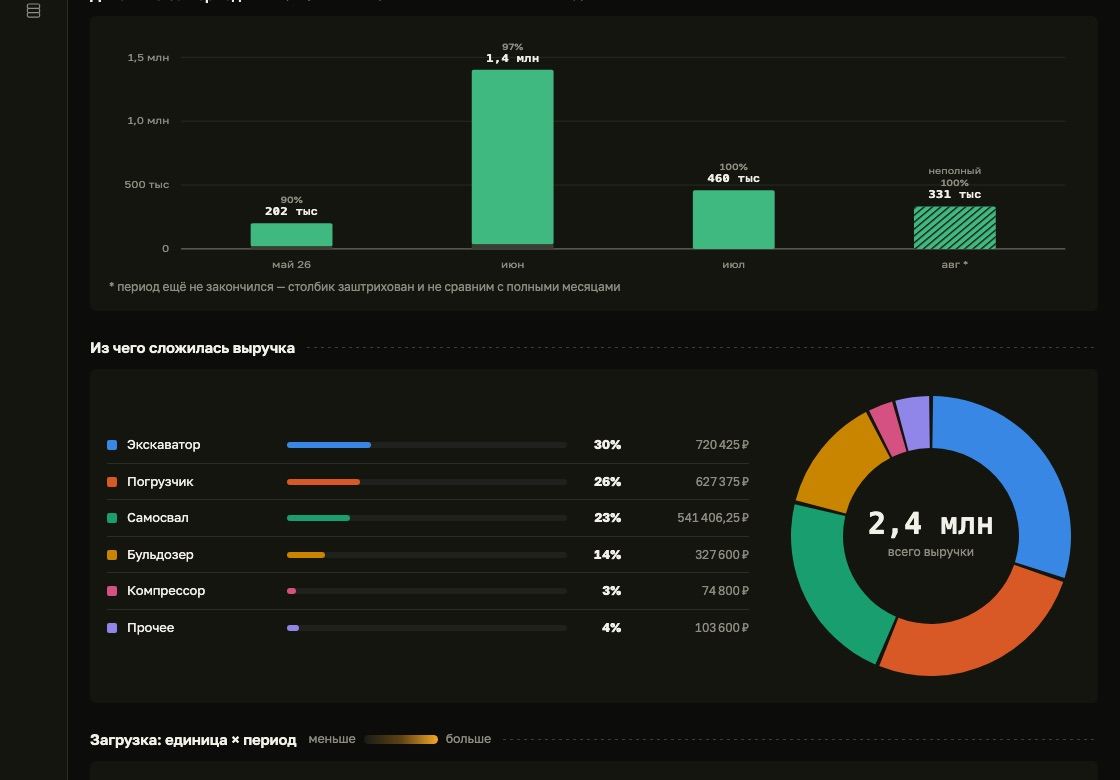
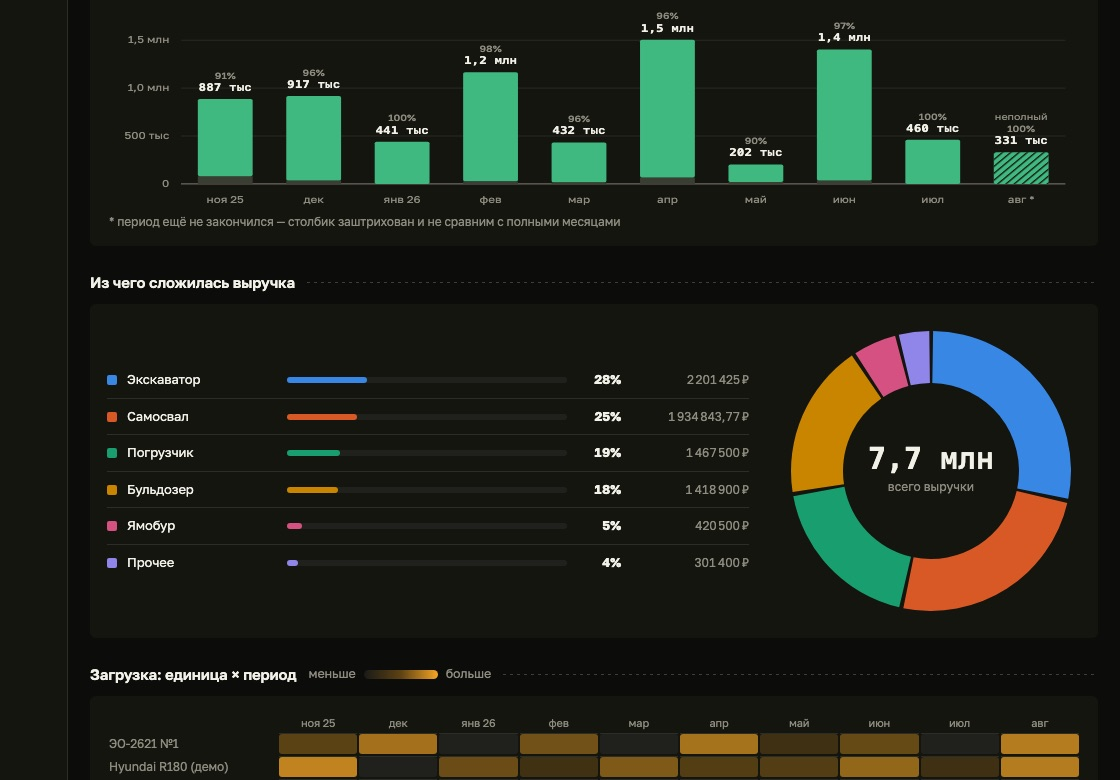
Park card: 9-month chart and the whole donut above the caption
Two changes he asked for.

The chart shows ten columns instead of four. The demo defaults to a 3-month
window even though 'm9' is the declared default preset - periodFrom is
initialised to -60 days and the saved period in localStorage wins after that -
so the shot page forces applyPreset('m9') on load. That is a screenshot-only
override; the demo itself is untouched.

The crop moves y=455 -> y=520 so the donut clears the caption completely rather
than 80%. Measured: caption 115px on an 889px card = 145px of the 1120 source,
leaving rows 0-635 visible; the donut occupies page rows 850-1150, so 1150-635
puts its bottom edge exactly on the caption line.

Card descriptions drop from three lines to two. The caption sits ON the shot
now, so every line it takes is a line of product it hides - and park's donut was
landing under the third one.

diff --git a/app/src/v2/v2.css b/app/src/v2/v2.css
@@ -503,7 +503,9 @@ html.v2light{--slogan:linear-gradient(100deg,#8A7261,#5C4536 46%,#33241A)}
 .proj__body b{display:block;color:var(--ink);font-size:clamp(15px,1.15vw,18px);letter-spacing:-.01em}
 .proj__body em{display:block;margin-top:5px;color:var(--ink-soft);font-style:normal;
   font-size:clamp(12px,.86vw,13.5px);line-height:1.45;
-  display:-webkit-box;-webkit-line-clamp:3;-webkit-box-orient:vertical;overflow:hidden}
+  /* two lines, not three. The caption sits ON the shot, so every line it takes is a line of the
+     product it hides - and the donut on park's card was landing exactly under the third one. */
+  display:-webkit-box;-webkit-line-clamp:2;-webkit-box-orient:vertical;overflow:hidden}
 .proj__go{display:inline-block;margin-top:9px;color:var(--accent);
   font-size:12.5px;letter-spacing:.01em}
 
